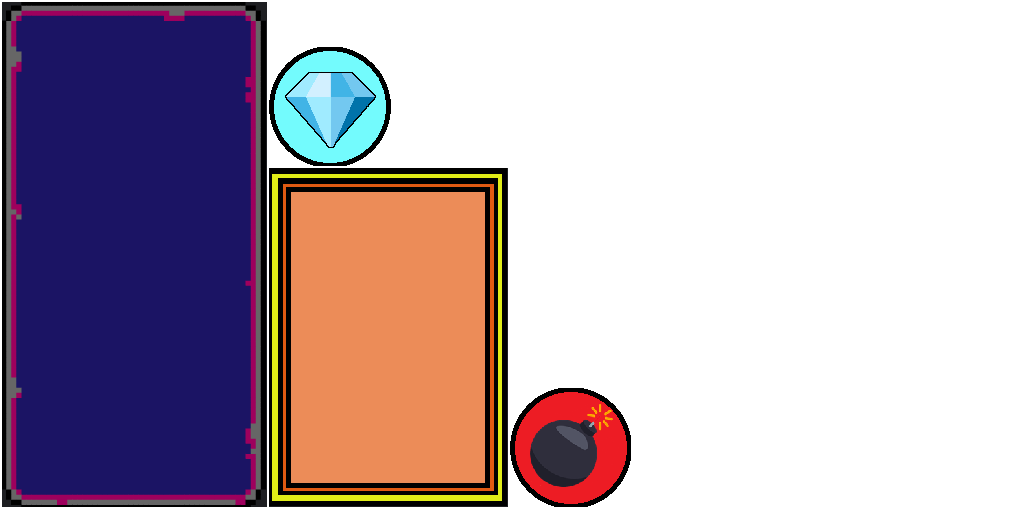
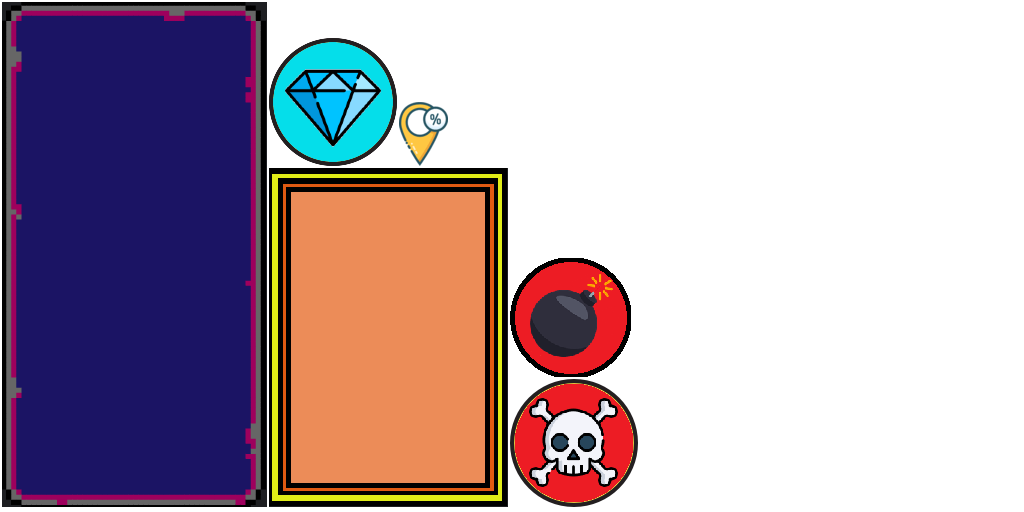
SERVERLESS-25 Vizualizacija točk ter

Changed region(s): [[0.5, 0.5, 0.625, 1.0], [0.25, 0.0625, 0.4375, 0.3438]]

diff --git a/Razvoj iger/core/src/main/java/si/um/feri/serverless/DiscountGame.java b/Razvoj iger/core/src/main/java/si/um/feri/serverless/DiscountGame.java
@@ -3,11 +3,10 @@ package si.um.feri.serverless;
 import com.badlogic.gdx.ApplicationAdapter;
 import com.badlogic.gdx.Gdx;
 import com.badlogic.gdx.Input;
-import com.badlogic.gdx.InputMultiplexer;
-import com.badlogic.gdx.graphics.Color;
 import com.badlogic.gdx.graphics.OrthographicCamera;
 import com.badlogic.gdx.graphics.Texture;
 import com.badlogic.gdx.graphics.g2d.SpriteBatch;
+import com.badlogic.gdx.graphics.g2d.TextureAtlas;
 import com.badlogic.gdx.graphics.g2d.TextureRegion;
 import com.badlogic.gdx.graphics.glutils.ShapeRenderer;
 import com.badlogic.gdx.input.GestureDetector;
@@ -21,6 +20,9 @@ import com.badlogic.gdx.math.MathUtils;
 import com.badlogic.gdx.math.Vector2;
 import com.badlogic.gdx.math.Vector3;
 import com.badlogic.gdx.utils.ScreenUtils;
+
+import si.um.feri.serverless.assets.AssetManager;
+import si.um.feri.serverless.assets.RegionNames;
 import si.um.feri.serverless.utils.Constants;
 import si.um.feri.serverless.utils.Geolocation;
 import si.um.feri.serverless.utils.MapRasterTiles;
@@ -42,6 +44,16 @@ import java.util.List;
 public class DiscountGame extends ApplicationAdapter implements GestureDetector.GestureListener {
 
     private ShapeRenderer shapeRenderer;
+
+    private float rotationAngle = 0f;
+
+    private Vector3 mousePosition = new Vector3();
+
+    private TextureAtlas gameplayAtlas;
+
+    private SpriteBatch spriteBatch;
+    private TextureRegion pinRegion;
+    private AssetManager assetManager;
     private Vector3 touchPosition;
 
     private List<Geolocation> eventLocations;
@@ -58,7 +70,18 @@ public class DiscountGame extends ApplicationAdapter implements GestureDetector.
 
     @Override
     public void create() {
+
         shapeRenderer = new ShapeRenderer();
+
+        spriteBatch = new SpriteBatch();
+
+        AssetManager assetManager = new AssetManager();
+        assetManager.loadAllAssets();
+        assetManager.finishLoading();
+        gameplayAtlas = assetManager.getGameplayAtlas();
+
+        pinRegion = gameplayAtlas.findRegion(RegionNames.PIN);
+
 
         camera = new OrthographicCamera();
         camera.setToOrtho(false, Constants.MAP_WIDTH, Constants.MAP_HEIGHT);
@@ -152,20 +175,52 @@ public class DiscountGame extends ApplicationAdapter implements GestureDetector.
     }
 
     private void drawMarkers() {
-        shapeRenderer.setProjectionMatrix(camera.combined);
-        shapeRenderer.setColor(Color.RED);
-        shapeRenderer.begin(ShapeRenderer.ShapeType.Filled);
-
-        // Draw markers on the map for ALL events fetched from MongoDB
+        spriteBatch.setProjectionMatrix(camera.combined);
+        spriteBatch.begin();
 
         if (eventLocations != null) {
             for (Geolocation location : eventLocations) {
                 Vector2 marker = MapRasterTiles.getPixelPosition(location.lat, location.lng, beginTile.x, beginTile.y);
-                shapeRenderer.circle(marker.x, marker.y, 10);
+
+                if (isMouseOverMarker(marker)) {
+                    rotationAngle += 3f; // Hitrost vrtenja
+
+                    float bounceOffset = MathUtils.sinDeg(rotationAngle * 2) * 5; // Poskakovanje gor in dol
+
+                    // Prikaz pina z rotacijo okoli lastnega središča
+                    spriteBatch.draw(pinRegion,
+                        marker.x - pinRegion.getRegionWidth() / 2, // X začetne pozicije
+                        marker.y - pinRegion.getRegionHeight() / 2 + bounceOffset, // Y z dodatkom za poskakovanje
+                        pinRegion.getRegionWidth() / 2, // X središča rotacije
+                        pinRegion.getRegionHeight() / 2, // Y središča rotacije
+                        pinRegion.getRegionWidth(), // Širina slike
+                        pinRegion.getRegionHeight(), // Višina slike
+                        1f, // Merilo po X
+                        1f, // Merilo po Y
+                        rotationAngle // Kot rotacije
+                    );
+                } else {
+                    spriteBatch.draw(pinRegion,
+                        marker.x - pinRegion.getRegionWidth() / 2,
+                        marker.y - pinRegion.getRegionHeight() / 2);
+                }
             }
         }
 
-        shapeRenderer.end();
+        spriteBatch.end();
+    }
+
+
+    private void updateMousePosition() {
+        mousePosition.set(Gdx.input.getX(), Gdx.input.getY(), 0);
+        camera.unproject(mousePosition);
+    }
+
+    private boolean isMouseOverMarker(Vector2 marker) {
+        float markerWidth = pinRegion.getRegionWidth();
+        float markerHeight = pinRegion.getRegionHeight();
+        return mousePosition.x >= marker.x - markerWidth / 2 && mousePosition.x <= marker.x + markerWidth / 2 &&
+            mousePosition.y >= marker.y - markerHeight / 2 && mousePosition.y <= marker.y + markerHeight / 2;
     }
 
     @Override
@@ -179,12 +234,15 @@ public class DiscountGame extends ApplicationAdapter implements GestureDetector.
         tiledMapRenderer.setView(camera);
         tiledMapRenderer.render();
 
+        updateMousePosition();
         drawMarkers();
     }
 
     @Override
     public void dispose() {
         shapeRenderer.dispose();
+        spriteBatch.dispose();
+        assetManager.dispose();
     }
 
     @Override

diff --git a/Razvoj iger/core/src/main/java/si/um/feri/serverless/assets/AssetPaths.java b/Razvoj iger/core/src/main/java/si/um/feri/serverless/assets/AssetPaths.java
@@ -2,10 +2,8 @@ package si.um.feri.serverless.assets;
 
 public class AssetPaths {
     public static final String GAMEPLAY_ATLAS = "core/assets/gameplay/gameplay.atlas";
-
     public static final String UI_SKIN = "ui/terra-mother-ui.json";
     public static final String UI_SKIN_ALTERNATIVE = "ui_alternative/cloud-form-ui.json";
-
     public static final String DIAMOND_SOUND = "core/assets/sounds/diamondSound.wav";
     public static final String MENU_PICK_SOUND = "core/assets/sounds/menu_pick.wav";
     public static final String BOMB_SOUND = "core/assets/sounds/bombSound.wav";

diff --git a/Razvoj iger/core/src/main/java/si/um/feri/serverless/assets/AssetManager.java b/Razvoj iger/core/src/main/java/si/um/feri/serverless/assets/AssetManager.java
@@ -15,7 +15,7 @@ public class AssetManager {
         this.assetManager = new com.badlogic.gdx.assets.AssetManager();
     }
 
-    private void loadAllAssets(){
+    public void loadAllAssets(){
         assetManager.load(AssetPaths.GAMEPLAY_ATLAS, TextureAtlas.class);
         assetManager.load(AssetPaths.UI_SKIN, Skin.class);
         assetManager.load(AssetPaths.UI_SKIN_ALTERNATIVE, Skin.class);
@@ -52,4 +52,7 @@ public class AssetManager {
         assetManager.dispose();
     }
 
+    public void finishLoading() {
+        assetManager.finishLoading();
+    }
 }

diff --git a/Razvoj iger/lwjgl3/src/main/java/si/um/feri/serverless/lwjgl3/DesktopLauncher.java b/Razvoj iger/lwjgl3/src/main/java/si/um/feri/serverless/lwjgl3/DesktopLauncher.java
@@ -9,7 +9,7 @@ public class DesktopLauncher {
     public static void main (String[] arg) {
         Lwjgl3ApplicationConfiguration config = new Lwjgl3ApplicationConfiguration();
         config.setForegroundFPS(60);
-        config.setTitle("Test");
+        config.setTitle("Discoint Game");
         config.setWindowedMode(900, 900);
         config.setResizable(false);
         new Lwjgl3Application(new DiscountGame(), config);

diff --git a/Razvoj iger/core/src/main/java/si/um/feri/serverless/assets/RegionNames.java b/Razvoj iger/core/src/main/java/si/um/feri/serverless/assets/RegionNames.java
@@ -5,7 +5,7 @@ public class RegionNames {
     public static final String HUD_MENU_ALTERNATIVE = "HUD_ALTERNATIVE";
     public static final String BOMB= "bomb";
     public static final String DIAMOND = "diamond";
-
+    public static final String PIN = "pin";
     private RegionNames() {
     }
 }
